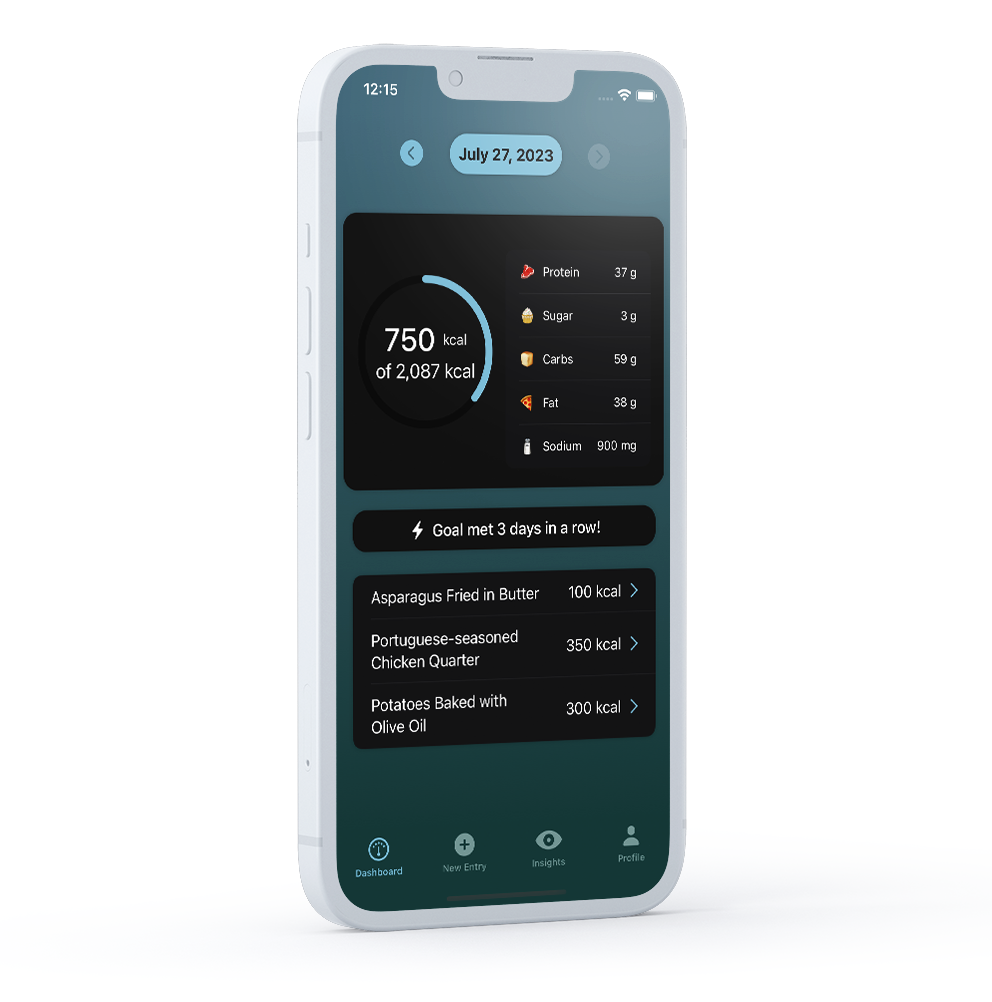
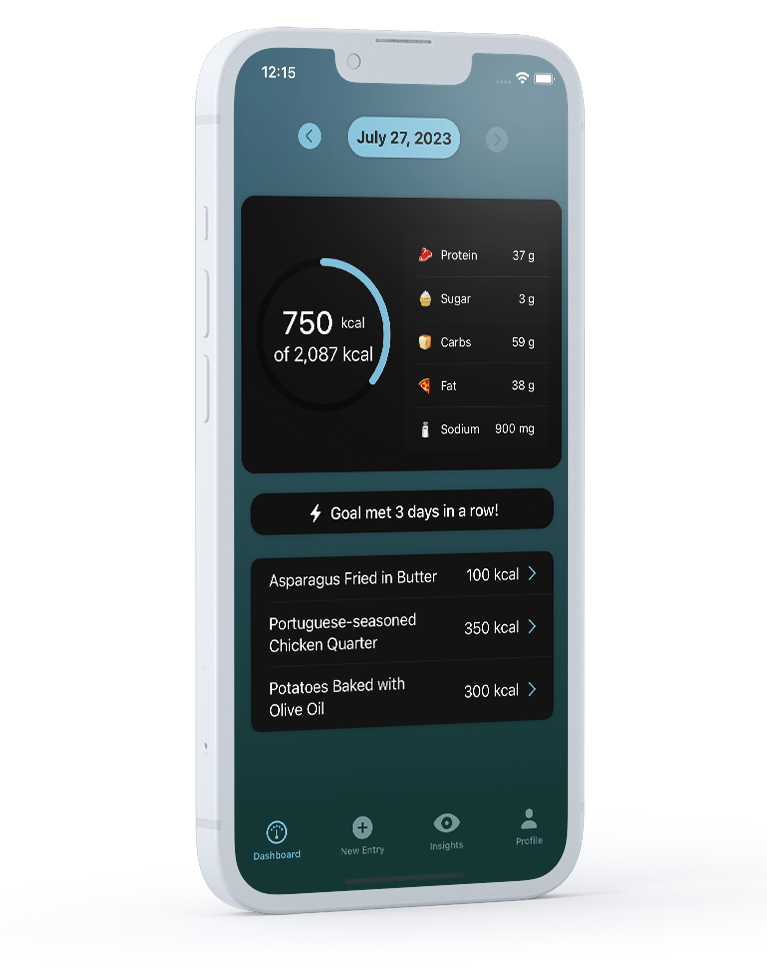
made responsive

Changed region(s): [[0.2399, 0.0308, 0.7797, 0.9548]]

diff --git a/pages/index.js b/pages/index.js
@@ -8,21 +8,21 @@ import appStoreIcon from '../public/download_on_app_store.svg'; // import the SV
 const Home = () => {
   return (
     <Layout>
-      <div className="container mx-auto">
-        <div className="flex items-center">
-          <div className="flex flex-col max-w-lg">
-            <div className="text-8xl text-left font-bold text-tagline">
-                Discover self-gratification in your health through Nosh.
+      <div className="container px-4 mx-auto md:px-0">
+        <div className="flex flex-col-reverse md:flex-row items-center md:space-x-10">
+          <div className="flex flex-col items-center md:items-start md:w-1/2">
+            <div className="text-4xl md:text-tagline text-8xl text-center md:text-left font-bold mb-6">
+                Your health odyssey begins today. Try Nosh for free.
             </div>
-            <p className="text-xl mb-6 mt-16">
+            <p className="text-lg md:text-xl mb-6 text-center md:text-left">
             {"With Nosh you can easily keep an eye on what you eat. Just tell it what you're having or jot it down in the journal - it's as simple as that. The app will track your macros and use AI to give you insights based on your fitness goals. It's a practical, user-friendly tool that helps you manage your nutrition effectively. No fuss, just you moving closer to your health goals, one day at a time."}
             </p>
             <Link href={'https://www.apple.com/app-store/'}>
-              <Image src={appStoreIcon} alt="Download on App Store" width={200} height={60} /> {/* Render the SVG */}
+              <Image src={appStoreIcon} alt="Download on App Store" width={140} height={42} /> {/* Render the SVG */}
             </Link>
           </div>
-          <div className="rounded-lg w-100">
-            <Image src={appImage} alt="Nosh Diary App" width={1400} height={800} />
+          <div className="-mt-8 md:mt-0 w-full md:w-1/2">
+            <Image src={appImage} alt="Nosh Diary App" width={800} height={342}  />
           </div>
         </div>
       </div>
